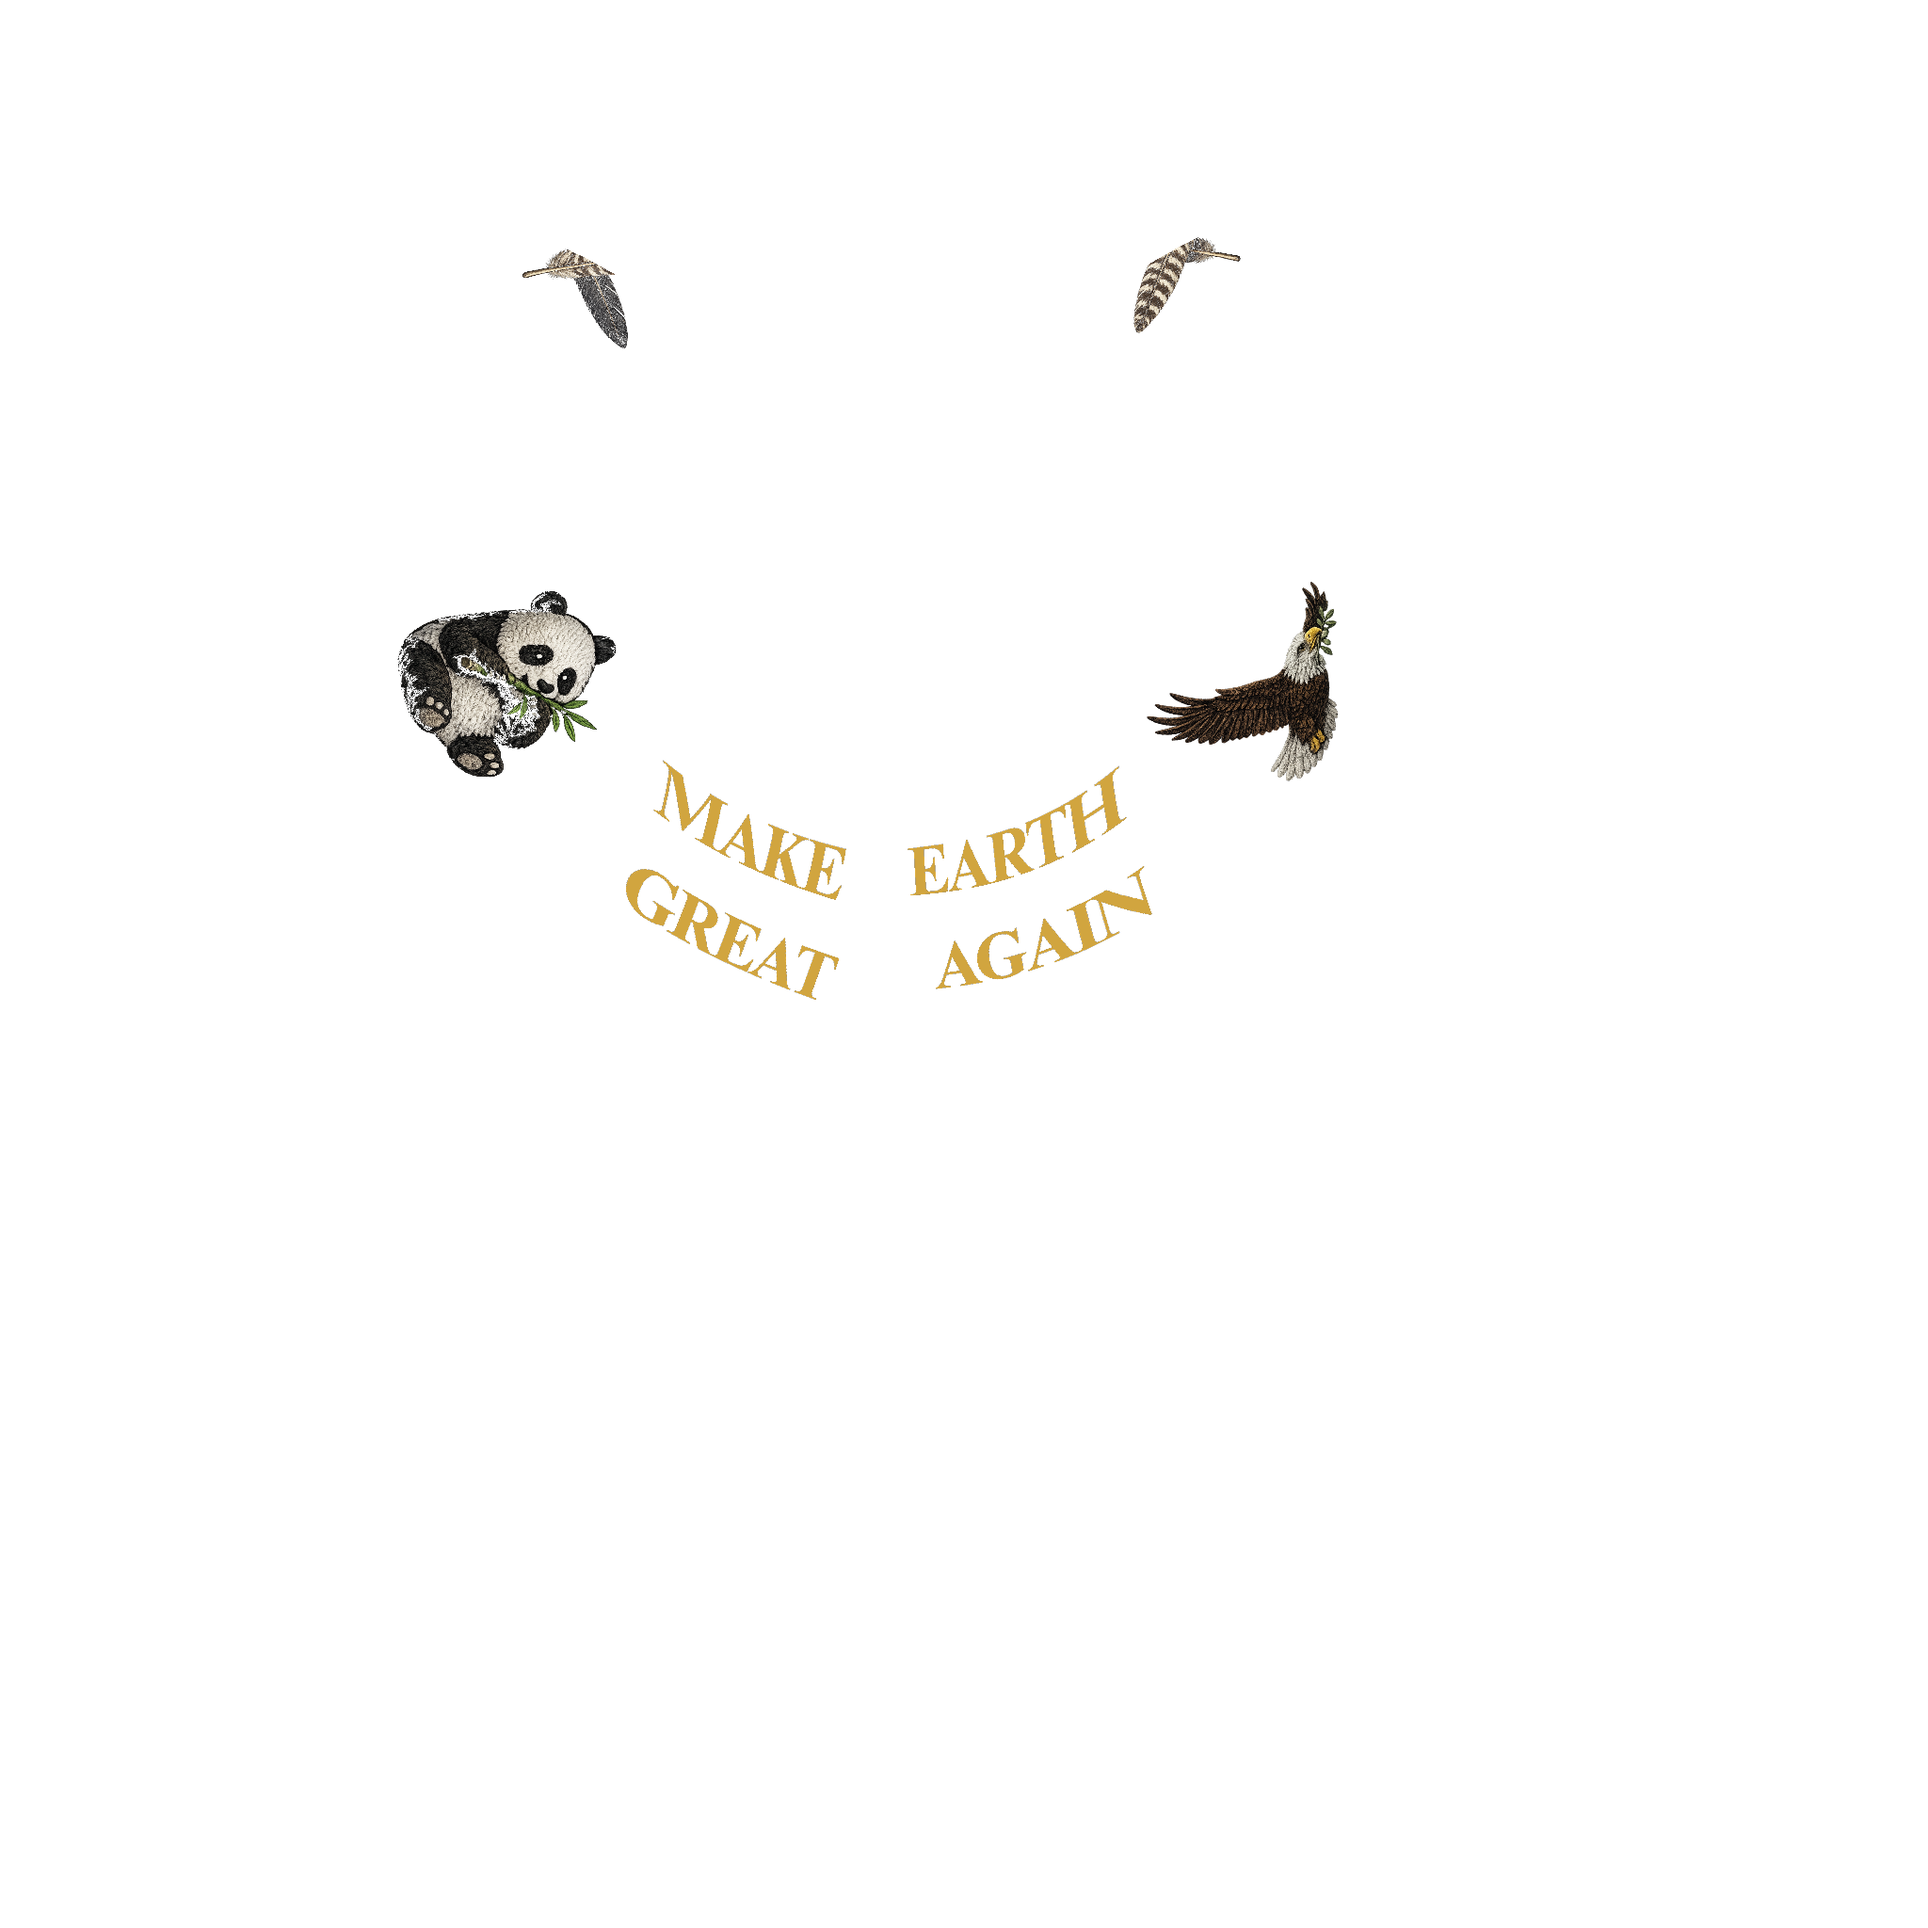
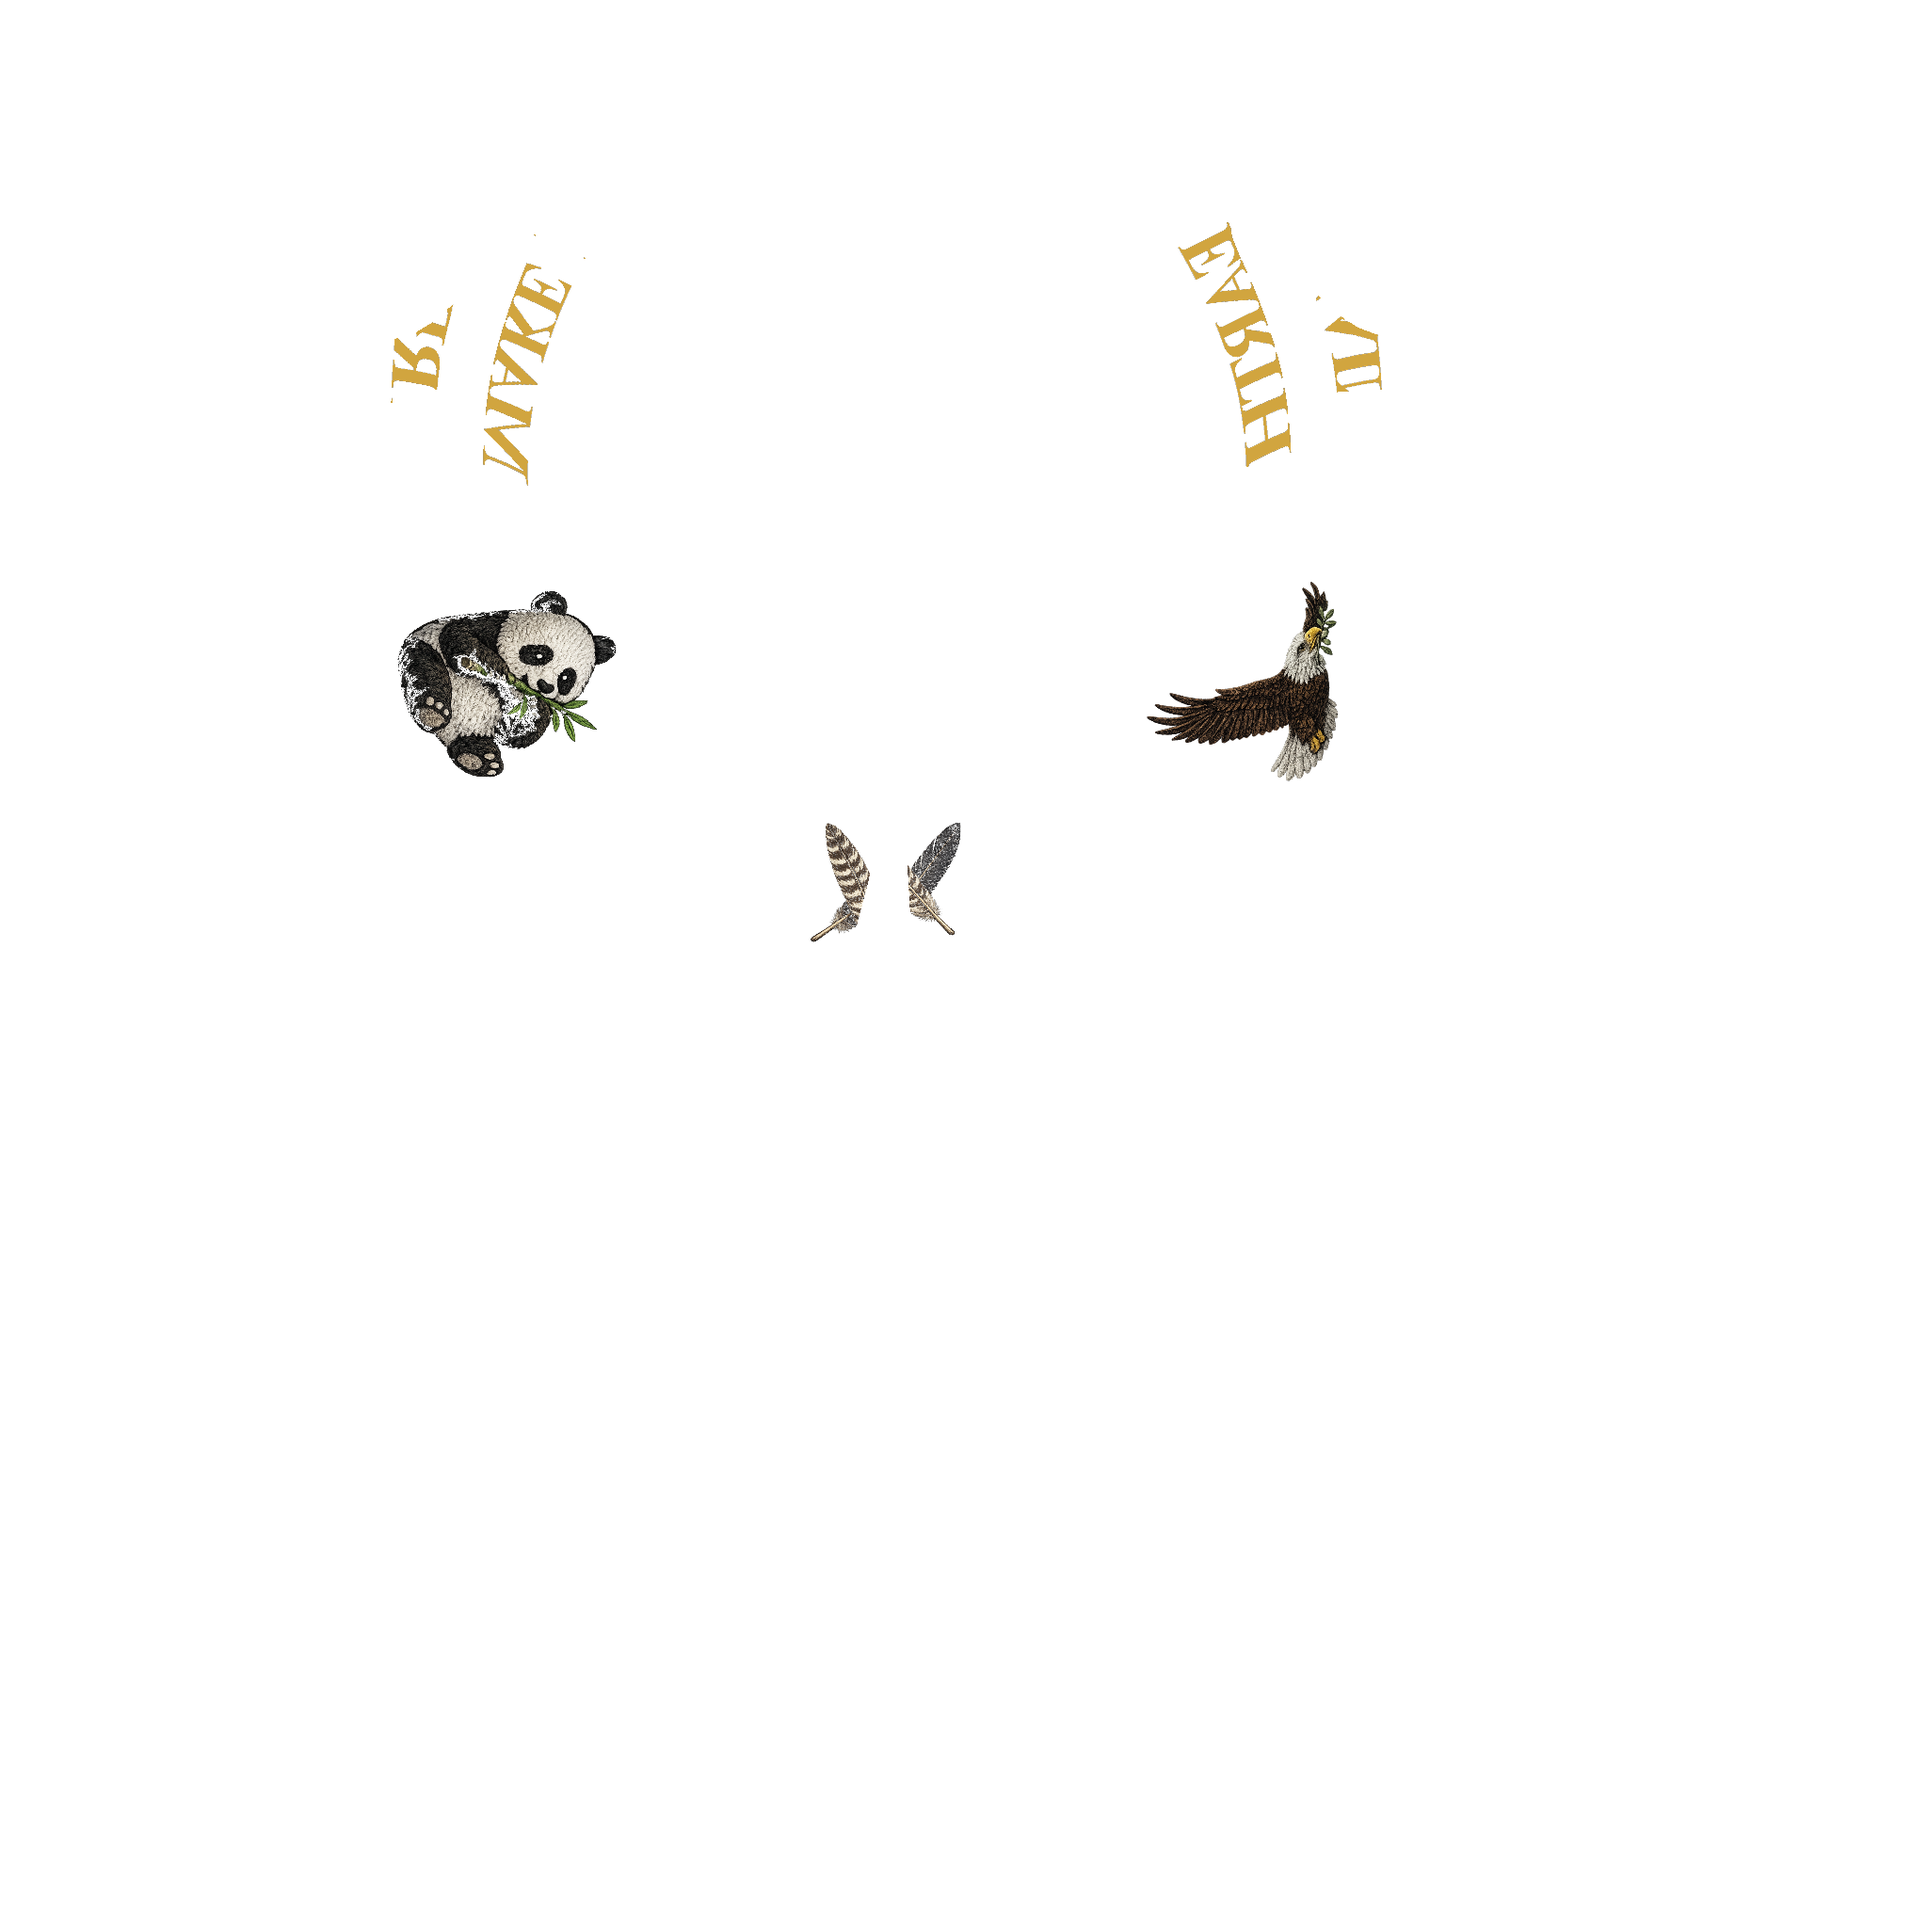
fix(hat): correct mesh axis interpretation - MEGA on actual front face
Empirical debug bake (color-coded by mesh axes) revealed mesh +y is the
front (brim direction in render), not -y. Previous bake was painting MEGA
on the back of the cap. Now MEGA reads correctly across the front face
when viewed from front/3-quarter views, panda on cap-LEFT, eagle on
cap-RIGHT, feathers center-back.

diff --git a/scripts/bake_cap_decals.py b/scripts/bake_cap_decals.py
@@ -131,30 +131,33 @@ def sample(img, sx, sy):
 # MEGA aspect 1024:407 ≈ 2.515.
 
 decals = [
-    # FRONT face (-y direction). MAGA-cap style: large, bold, full width.
+    # FRONT face (+y direction). Empirically: mesh +y → world +z (visible from default camera).
+    # Camera looks toward -z = mesh -y direction; viewer's right = world +x = mesh +x.
     dict(name='mega', img=dimg['mega'],
-         center=Vector((0.0, -3.5, 2.6)),
-         du=Vector((1, 0, 0)), dv=Vector((0, 0, 1)),
+         center=Vector((0.0, +3.5, 2.6)),
+         du=Vector((+1, 0, 0)), dv=Vector((0, 0, 1)),
          half_w=3.2, half_h=3.2/2.515,
-         x_lo=-4.0, x_hi=+4.0, y_lo=-5.0, y_hi=-1.0, z_lo=0.5, z_hi=5.4),
-    # CAP-LEFT side panel (-x direction). Project from -x looking +x. Viewer's right = -y (front), up = +z.
+         x_lo=-4.0, x_hi=+4.0, y_lo=+1.0, y_hi=+5.0, z_lo=0.5, z_hi=5.4),
+    # CAP-LEFT side panel (-x direction). Viewer at mesh -x looking +x; right = mesh -y (back).
+    # Wait: empirically mesh -y is back, so viewer's right = mesh -y. But cross product gives +y for viewer at -x.
+    # Going with cross product math: forward=+x, up=+z, right = forward × up = +x × +z = -y.
     dict(name='panda', img=dimg['panda'],
          center=Vector((-3.6, 0.0, 2.6)),
          du=Vector((0, -1, 0)), dv=Vector((0, 0, 1)),
          half_w=1.5, half_h=1.5,
          x_lo=-5.0, x_hi=-1.5, y_lo=-2.0, y_hi=+2.0, z_lo=0.6, z_hi=4.8),
-    # CAP-RIGHT side panel (+x direction). Project from +x looking -x. Viewer's right = +y (back), up = +z.
+    # CAP-RIGHT side panel (+x direction). Viewer at mesh +x looking -x; forward=-x, up=+z, right=-x × +z = +y.
     dict(name='eagle', img=dimg['eagle'],
          center=Vector((+3.6, 0.0, 2.6)),
          du=Vector((0, +1, 0)), dv=Vector((0, 0, 1)),
          half_w=1.5, half_h=1.5,
          x_lo=+1.5, x_hi=+5.0, y_lo=-2.0, y_hi=+2.0, z_lo=0.6, z_hi=4.8),
-    # BACK panel center (+y direction). Project from +y looking -y. Viewer's right = -x, up = +z.
+    # BACK panel (-y direction, strap). Viewer at mesh -y looking +y; forward=+y, up=+z, right=+y × +z = +x.
     dict(name='feathers', img=dimg['feathers'],
-         center=Vector((0.0, +3.4, 3.6)),
-         du=Vector((-1, 0, 0)), dv=Vector((0, 0, 1)),
+         center=Vector((0.0, -3.4, 3.0)),
+         du=Vector((+1, 0, 0)), dv=Vector((0, 0, 1)),
          half_w=1.6, half_h=1.6,
-         x_lo=-1.7, x_hi=+1.7, y_lo=+2.0, y_hi=+5.0, z_lo=1.9, z_hi=5.4),
+         x_lo=-1.7, x_hi=+1.7, y_lo=-5.0, y_hi=-2.0, z_lo=1.5, z_hi=5.0),
 ]
 
 atlas = [0.0] * (TEX * TEX * 4)
